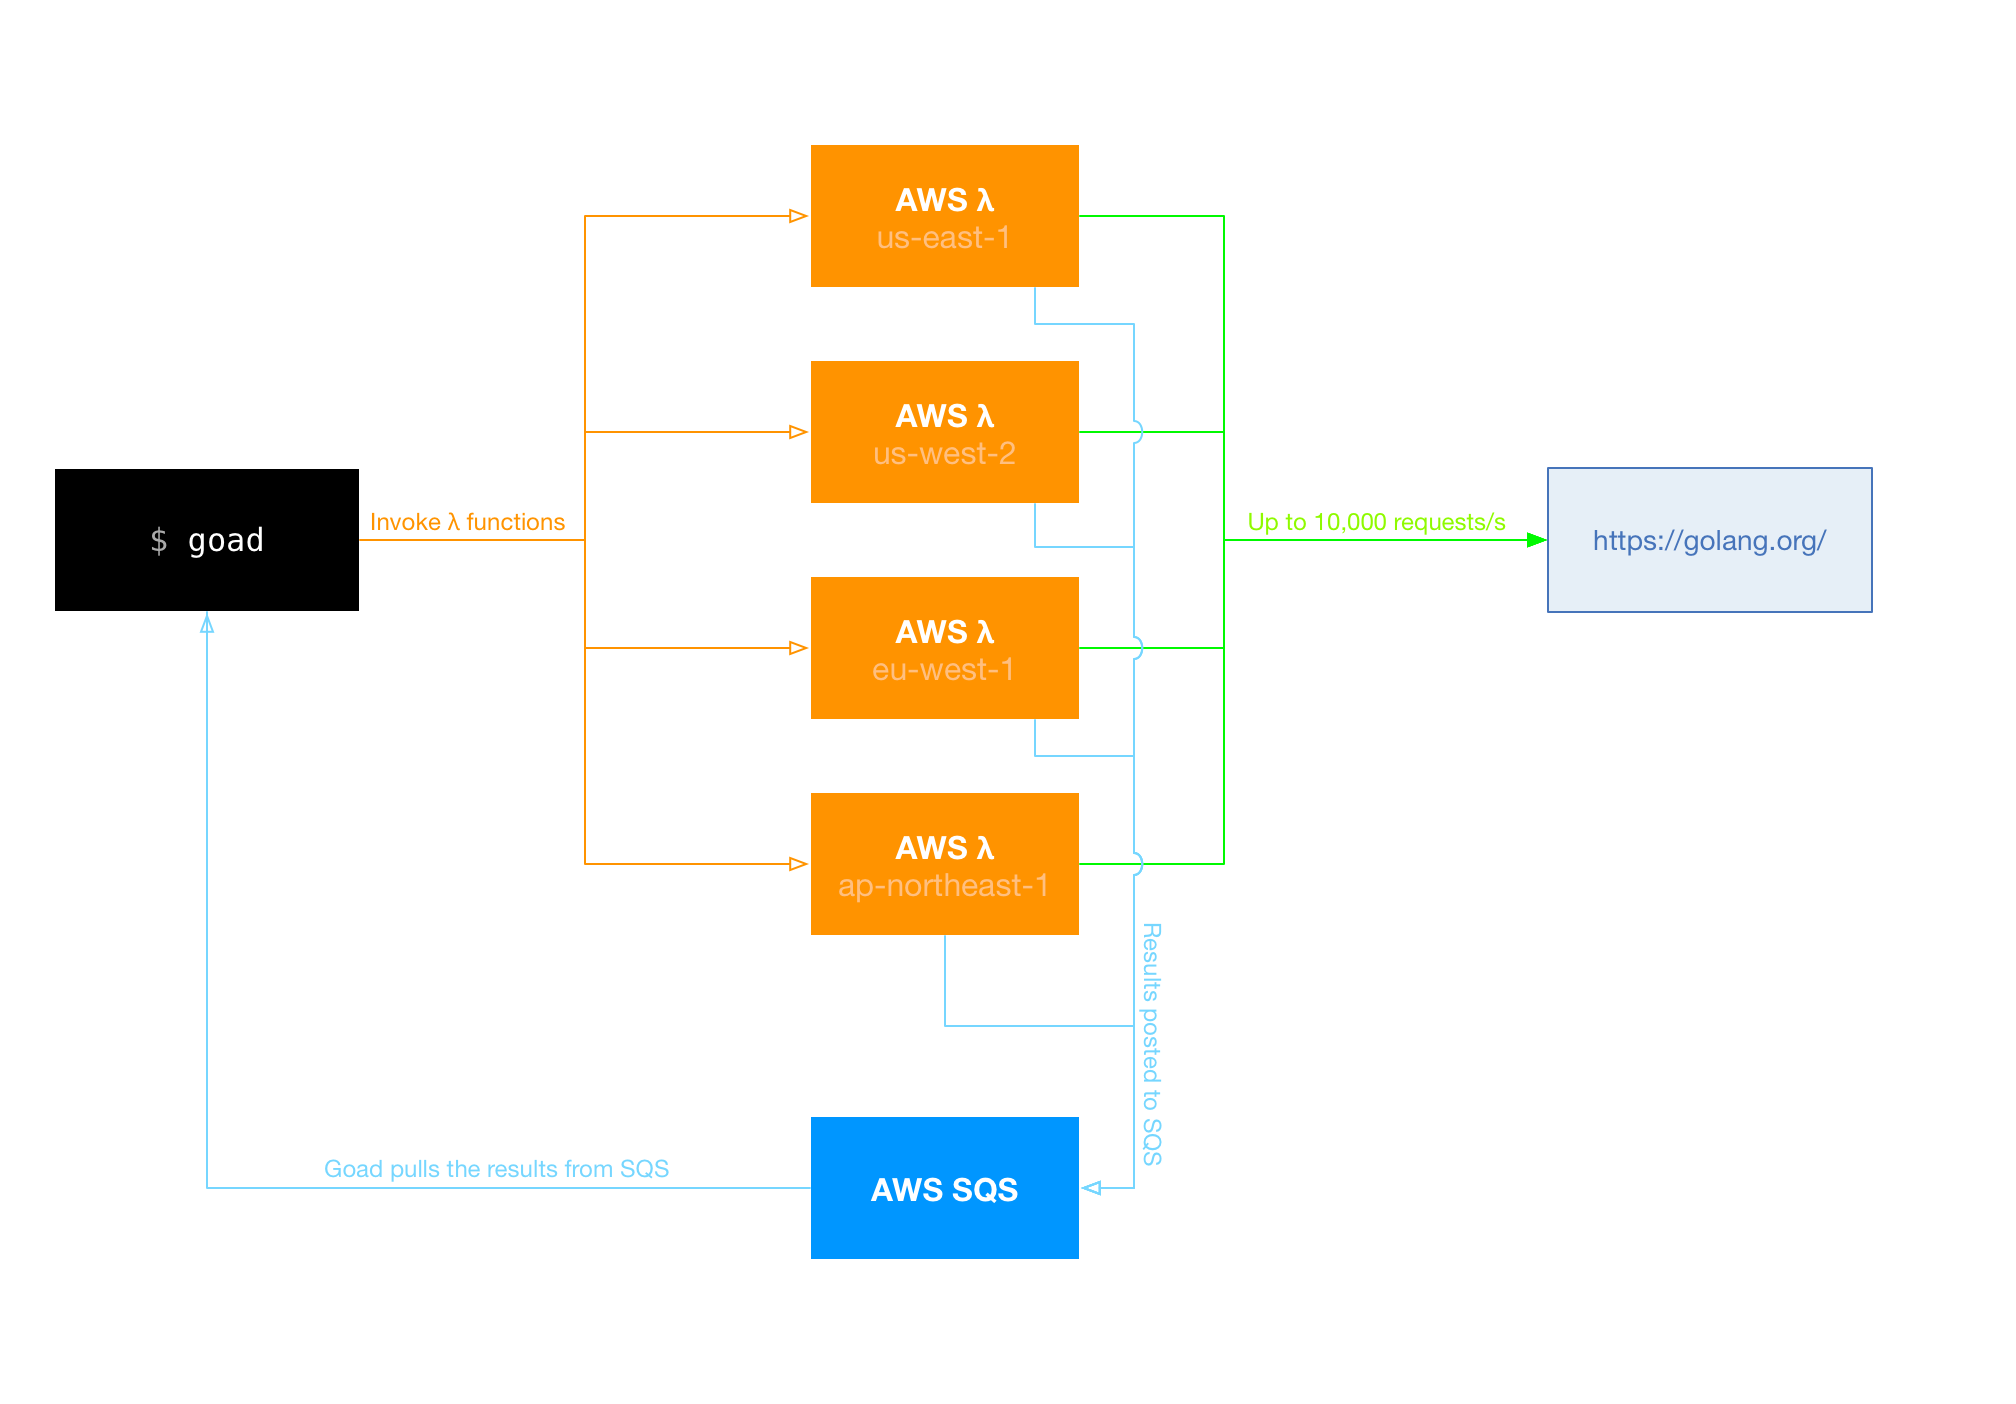
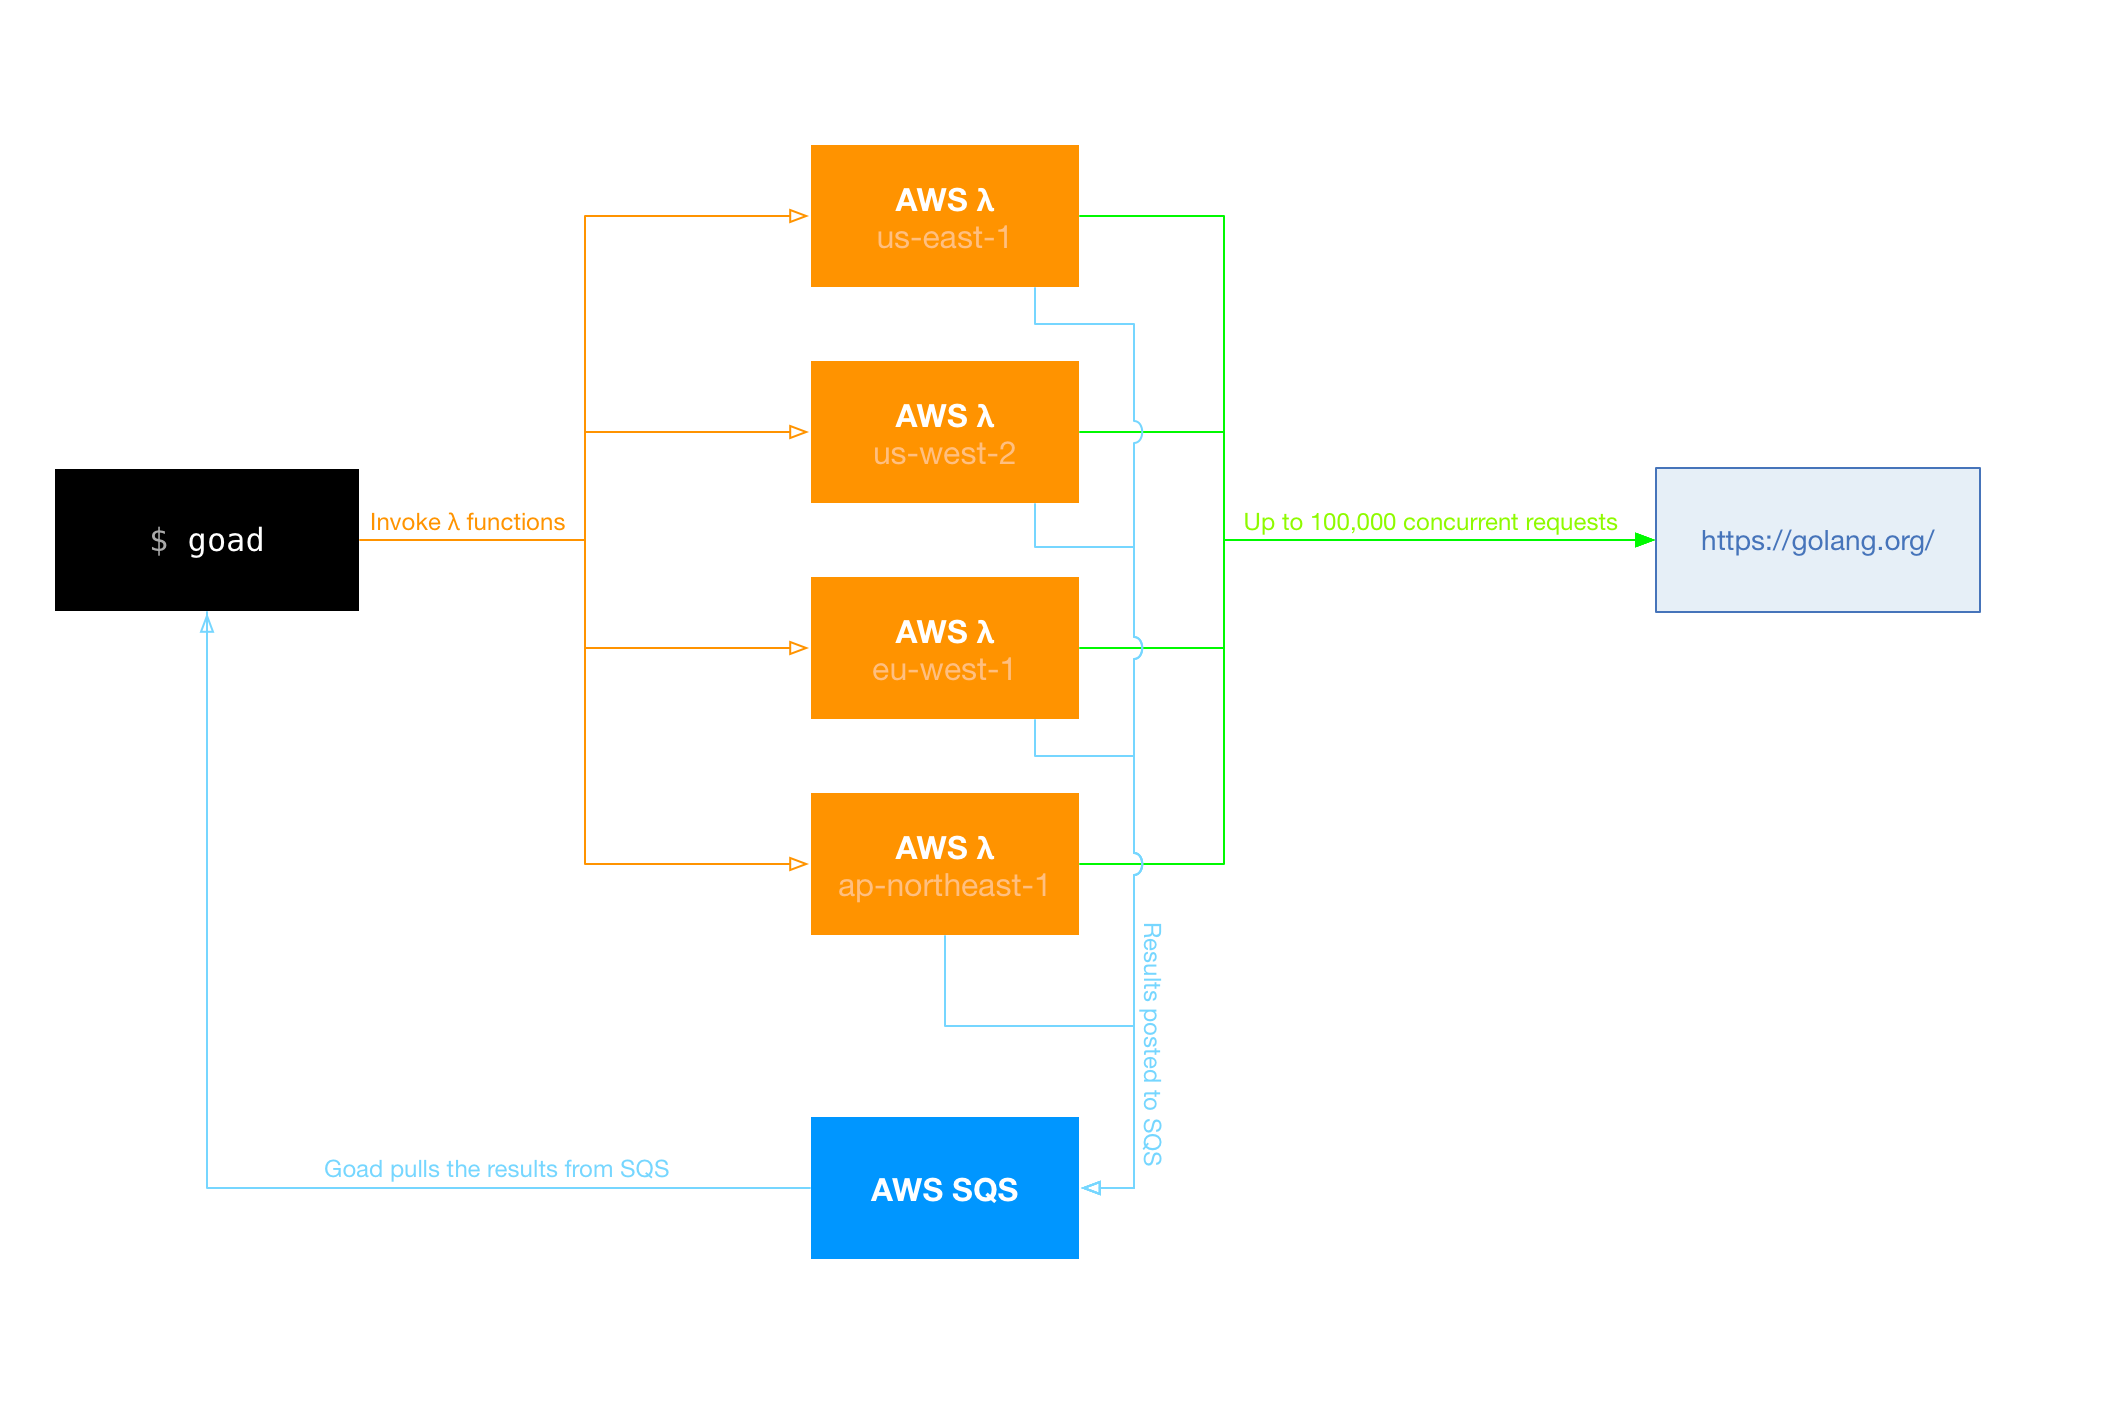
Updates the numbers

diff --git a/README.md b/README.md
@@ -7,7 +7,7 @@ load testing tool built in Go for the 2016 [Gopher Gala][].
 
 ## How it works
 
-Goad takes full advantage of the power of Amazon Lambdas for distributed load testing. You can use goad to launch HTTP loads from up to four AWS regions at once. Each lambda can handle hundreds of concurrent connections, we estimate that Goad should be able to achieve peak loads of up to **10,000 requests/second**.
+Goad takes full advantage of the power of Amazon Lambdas for distributed load testing. You can use goad to launch HTTP loads from up to four AWS regions at once. Each lambda can handle hundreds of concurrent connections, we estimate that Goad should be able to achieve peak loads of up to **100,000 requests/second**.
 
 ![Goad diagram](./site/src/img/diagram.png)
 
